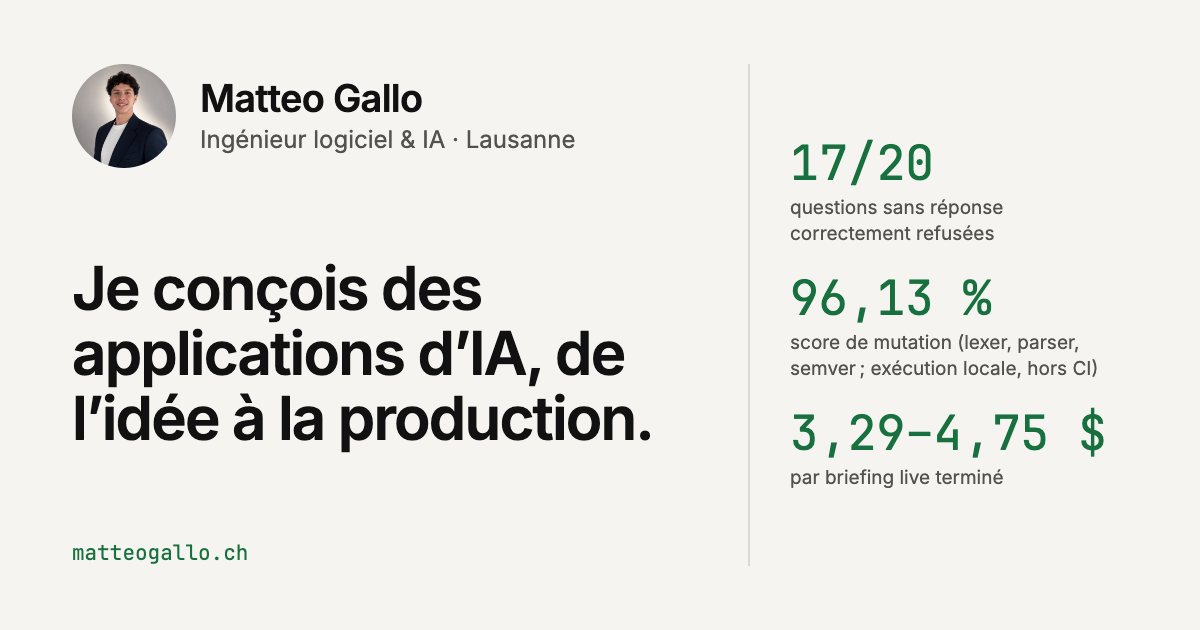
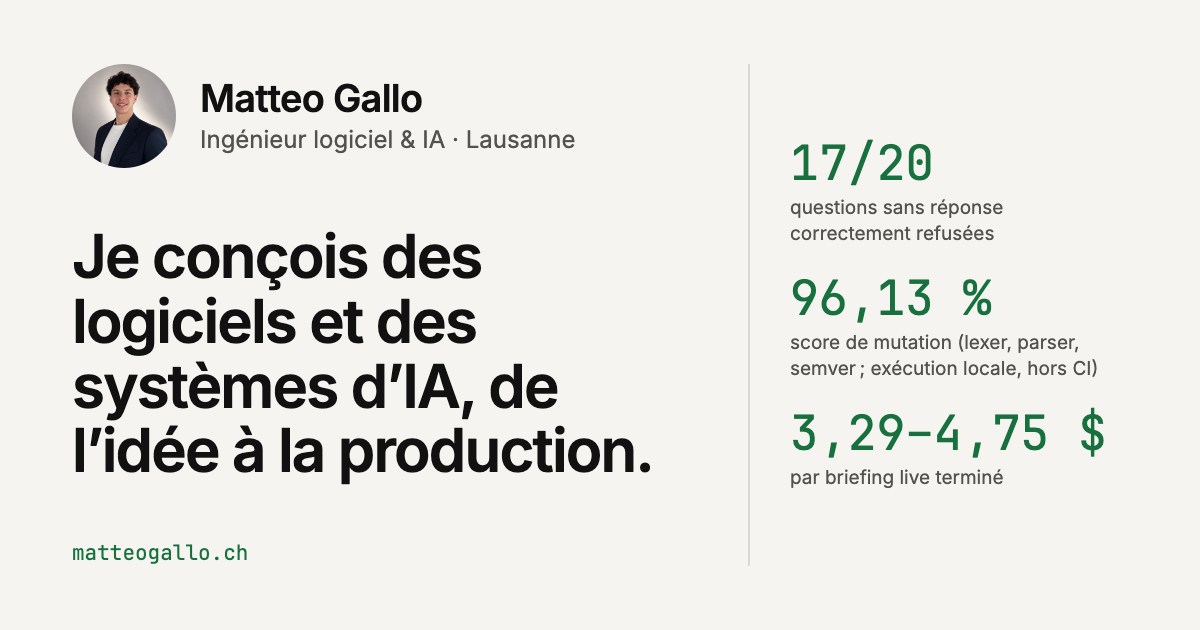
fix(home): the headline names software and ai systems (#17)

Changed region(s): [[0.0617, 0.3619, 0.555, 0.7841]]

diff --git a/tests/home.spec.ts b/tests/home.spec.ts
@@ -9,10 +9,10 @@ const WORDS = {
   fr: {
     path: "/",
     title: "Matteo Gallo — Ingénieur logiciel & IA",
-    description: "Matteo Gallo, ingénieur logiciel et IA à Lausanne. Applications d'IA conçues et mises en production de bout en bout, évaluées et mesurées.",
+    description: "Matteo Gallo, ingénieur logiciel et IA à Lausanne. Logiciels et systèmes d'IA conçus et mis en production de bout en bout, évalués et mesurés.",
     role: "Ingénieur logiciel & IA · Lausanne",
-    h1: "Je conçois des applications d'IA, de l'idée à la production.",
-    message: "Ma spécialité : mesurer ce qu'elles valent vraiment. Tests, évaluations, limites publiées.",
+    h1: "Je conçois des logiciels et des systèmes d'IA, de l'idée à la production.",
+    message: "Ma spécialité : mesurer ce qu'ils valent vraiment. Tests, évaluations, limites publiées.",
     actions: ["Voir les projets", "Écrire un e-mail"],
     projects: [
       [
@@ -49,9 +49,9 @@ const WORDS = {
   en: {
     path: "/en/",
     title: "Matteo Gallo — Software & AI Engineer",
-    description: "Matteo Gallo, software and AI engineer in Lausanne. AI applications designed and taken to production end to end, evaluated and measured.",
+    description: "Matteo Gallo, software and AI engineer in Lausanne. Software and AI systems designed and taken to production end to end, evaluated and measured.",
     role: "Software & AI Engineer · Lausanne",
-    h1: "I build AI applications, from idea to production.",
+    h1: "I build software and AI systems, from idea to production.",
     message: "My focus: measuring what they are actually worth. Tests, evaluations, published limits.",
     actions: ["See the projects", "Get in touch"],
     projects: [

diff --git a/src/lib/og.ts b/src/lib/og.ts
@@ -11,13 +11,13 @@ export const OG = {
   role: { fr: "Ingénieur logiciel & IA · Lausanne", en: "Software & AI Engineer · Lausanne" },
   fr: {
     file: "public/og.png",
-    headline: "Je conçois des applications d’IA, de l’idée à la production.",
-    alt: "Matteo Gallo, ingénieur logiciel et IA à Lausanne : « Je conçois des applications d’IA, de l’idée à la production. »",
+    headline: "Je conçois des logiciels et des systèmes d’IA, de l’idée à la production.",
+    alt: "Matteo Gallo, ingénieur logiciel et IA à Lausanne : « Je conçois des logiciels et des systèmes d’IA, de l’idée à la production. »",
   },
   en: {
     file: "public/og-en.png",
-    headline: "I build AI applications, from idea to production.",
-    alt: "Matteo Gallo, software and AI engineer in Lausanne: “I build AI applications, from idea to production.”",
+    headline: "I build software and AI systems, from idea to production.",
+    alt: "Matteo Gallo, software and AI engineer in Lausanne: “I build software and AI systems, from idea to production.”",
   },
   /** The home page's project cards, drawn beside the headline: one figure each, as the card shows it. */
   figures: [

diff --git a/docs/SPEC.md b/docs/SPEC.md
@@ -24,7 +24,7 @@ Plain text on the left, one strong visual on the right: Verity working on a cont
 ### 3.1 Home `/`
 1. **Navigation:** floating glass pill. Projects · Method · About, and the FR | EN selector; Writing joins it once an article exists. On the other pages the selector sits in the header.
 2. **First screen:** sober, readable by a recruiter in 30 seconds; no band of figures.
-   - Left, in small type: the **portrait** (56 px, round), the name, « Ingénieur logiciel & IA · Lausanne » / "Software & AI Engineer · Lausanne" and the status "Disponible" (green dot). Then the headline, 68 px: « Je conçois des applications d’IA, de l’idée à la production. » Under it: « Ma spécialité : mesurer ce qu’elles valent vraiment. Tests, évaluations, limites publiées. », and the buttons « Voir les projets » and « Écrire un e-mail ».
+   - Left, in small type: the **portrait** (56 px, round), the name, « Ingénieur logiciel & IA · Lausanne » / "Software & AI Engineer · Lausanne" and the status "Disponible" (green dot). Then the headline, 68 px: « Je conçois des logiciels et des systèmes d’IA, de l’idée à la production. » (EN: "I build software and AI systems, from idea to production.") Under it: « Ma spécialité : mesurer ce qu’ils valent vraiment. Tests, évaluations, limites publiées. », and the buttons « Voir les projets » and « Écrire un e-mail ».
    - Right: the Verity demo (section 2).
 3. **Projects:** 3 cards (Verity, PromptLang, Praxis; no calibre number), each with **a real screenshot or GIF** of the product, one sentence, **one** figure linked to its proof, one line « Limite : … » with its proof (the label in the defect colour, the text in ink), the technologies in small type, and links Case study · Code. The other figures stay on the case studies.
 4. **Method:** 3 cards side by side with noun titles (« Audit indépendant », « Lecture des sorties réelles », « Évaluation pré-enregistrée »), the real incident behind each in two lines and the link to its PR. Link to the repository.
